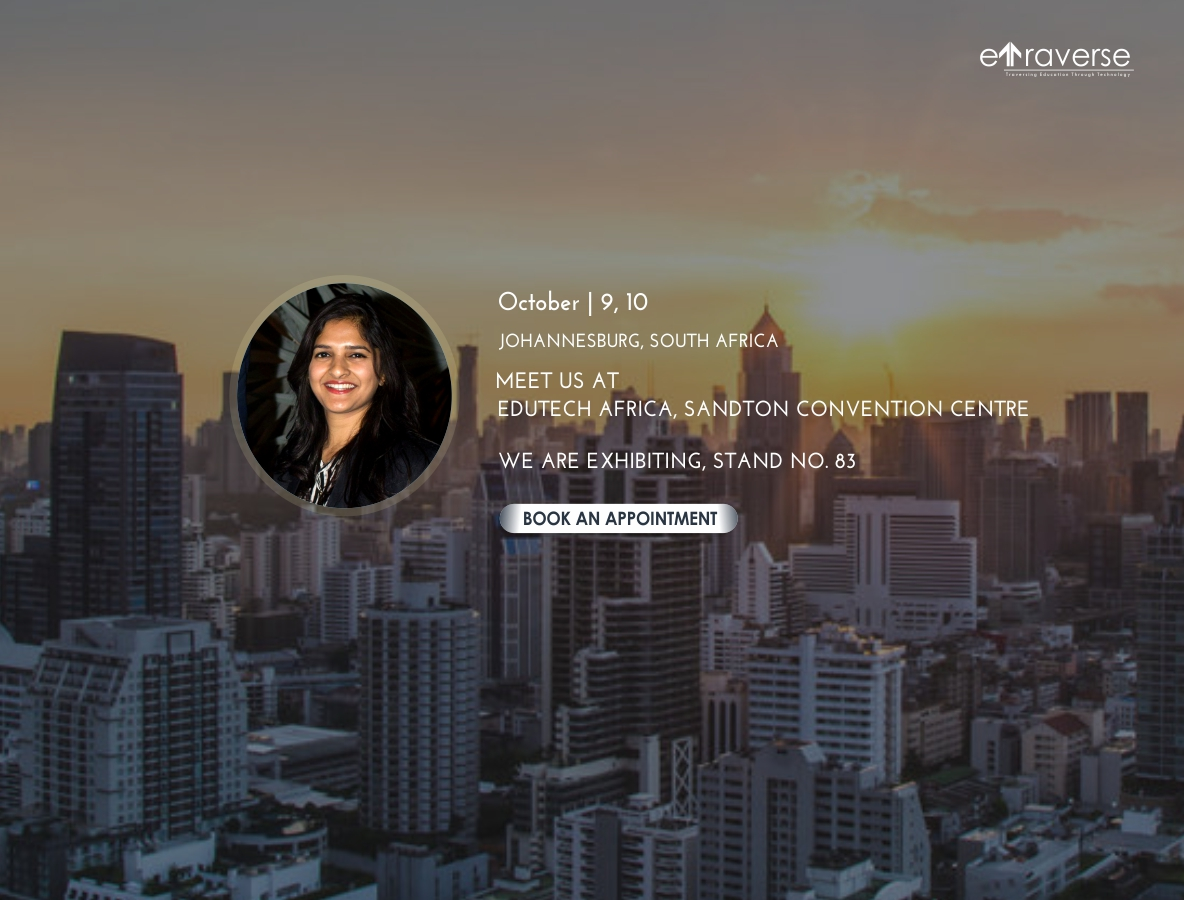
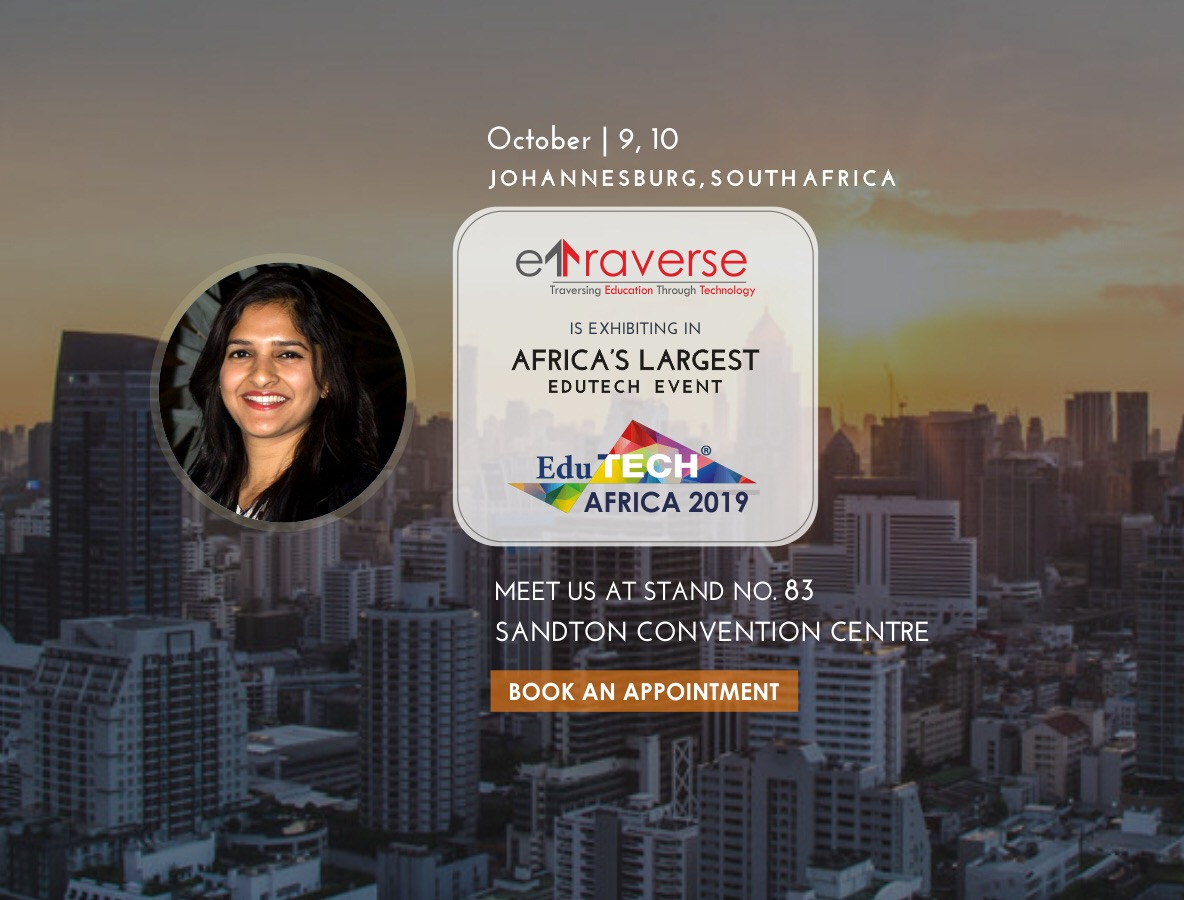
updated carousel image and twitter link

Changed region(s): [[0.125, 0.1244, 0.875, 0.7156], [0.4062, 0.7467, 0.6875, 0.8089], [0.8438, 0.0311, 0.9688, 0.0933]]

diff --git a/index.html b/index.html
@@ -73,8 +73,8 @@
           </div>
           <div class="ml-auto">
             <div class="social-wrap">
-              <a href="#"><span class="icon-twitter"></span></a>
-              <a target="_blank" href="linkedin.com/company/etraverse"><span class="icon-linkedin"></span></a>
+              <a target="_blank" href="https://twitter.com/eTraverse_"><span class="icon-linkedin"></span></a>
+              <a target="_blank" href="https://linkedin.com/company/etraverse"><span class="icon-linkedin"></span></a>
 
               <a href="#" class="d-inline-block d-lg-none site-menu-toggle js-menu-toggle text-black"><span
                   class="icon-menu h3"></span></a>
@@ -191,8 +191,7 @@
               </figure>
               <div class="course-1-content pb-4">
 
-                <p class="desc mb-4"> Our custom school/university management system has been designed to simplify and
-                  automate processes that have traditionally been paper-based.</p>
+                <p class="desc mb-4"> We have designed an all-in-one ERP to automate the traditional paper-based processes.</p>
                 <p><a href="offering_erp.html" class="btn btn-primary rounded-0 px-4">Learn More</a></p>
               </div>
             </div>

diff --git a/courses.html b/courses.html
@@ -98,8 +98,8 @@
           <div class="ml-auto">
             <div class="social-wrap">
               <a href="#"><span class="icon-facebook"></span></a>
-              <a href="#"><span class="icon-twitter"></span></a>
-              <a target="_blank" href="linkedin.com/company/etraverse"><span class="icon-linkedin"></span></a>
+              <a target="_blank" href="https://twitter.com/eTraverse_"><span class="icon-linkedin"></span></a>
+              <a target="_blank" href="https://linkedin.com/company/etraverse"><span class="icon-linkedin"></span></a>
 
               <a href="#" class="d-inline-block d-lg-none site-menu-toggle js-menu-toggle text-black"><span
                 class="icon-menu h3"></span></a>

diff --git a/news-single.html b/news-single.html
@@ -82,8 +82,8 @@
           <div class="ml-auto">
             <div class="social-wrap">
               <a href="#"><span class="icon-facebook"></span></a>
-              <a href="#"><span class="icon-twitter"></span></a>
-              <a target="_blank" href="linkedin.com/company/etraverse"><span class="icon-linkedin"></span></a>
+              <a target="_blank" href="https://twitter.com/eTraverse_"><span class="icon-linkedin"></span></a>
+              <a target="_blank" href="https://linkedin.com/company/etraverse"><span class="icon-linkedin"></span></a>
 
               <a href="#" class="d-inline-block d-lg-none site-menu-toggle js-menu-toggle text-black"><span
                 class="icon-menu h3"></span></a>

diff --git a/register.html b/register.html
@@ -98,8 +98,8 @@
           <div class="ml-auto">
             <div class="social-wrap">
               <a href="#"><span class="icon-facebook"></span></a>
-              <a href="#"><span class="icon-twitter"></span></a>
-              <a target="_blank" href="linkedin.com/company/etraverse"><span class="icon-linkedin"></span></a>
+              <a target="_blank" href="https://twitter.com/eTraverse_"><span class="icon-linkedin"></span></a>
+              <a target="_blank" href="https://linkedin.com/company/etraverse"><span class="icon-linkedin"></span></a>
 
               <a href="#" class="d-inline-block d-lg-none site-menu-toggle js-menu-toggle text-black"><span
                 class="icon-menu h3"></span></a>

diff --git a/contact.html b/contact.html
@@ -74,8 +74,8 @@
           </div>
           <div class="ml-auto">
             <div class="social-wrap">
-              <a href="#"><span class="icon-twitter"></span></a>
-              <a target="_blank" href="linkedin.com/company/etraverse"><span class="icon-linkedin"></span></a>
+              <a target="_blank" href="https://twitter.com/eTraverse_"><span class="icon-linkedin"></span></a>
+              <a target="_blank" href="https://linkedin.com/company/etraverse"><span class="icon-linkedin"></span></a>
 
               <a href="#" class="d-inline-block d-lg-none site-menu-toggle js-menu-toggle text-black"><span
                   class="icon-menu h3"></span></a>

diff --git a/event_africa_day.html b/event_africa_day.html
@@ -76,8 +76,8 @@
           </div>
           <div class="ml-auto">
             <div class="social-wrap">
-              <a href="#"><span class="icon-twitter"></span></a>
-              <a target="_blank" href="linkedin.com/company/etraverse"><span class="icon-linkedin"></span></a>
+              <a target="_blank" href="https://twitter.com/eTraverse_"><span class="icon-linkedin"></span></a>
+              <a target="_blank" href="https://linkedin.com/company/etraverse"><span class="icon-linkedin"></span></a>
 
               <a href="#" class="d-inline-block d-lg-none site-menu-toggle js-menu-toggle text-black"><span
                   class="icon-menu h3"></span></a>

diff --git a/event_edutech_africa.html b/event_edutech_africa.html
@@ -75,8 +75,8 @@
           </div>
           <div class="ml-auto">
             <div class="social-wrap">
-              <a href="#"><span class="icon-twitter"></span></a>
-              <a target="_blank" href="linkedin.com/company/etraverse"><span class="icon-linkedin"></span></a>
+              <a target="_blank" href="https://twitter.com/eTraverse_"><span class="icon-linkedin"></span></a>
+              <a target="_blank" href="https://linkedin.com/company/etraverse"><span class="icon-linkedin"></span></a>
 
               <a href="#" class="d-inline-block d-lg-none site-menu-toggle js-menu-toggle text-black"><span
                   class="icon-menu h3"></span></a>

diff --git a/event_wiit_awards.html b/event_wiit_awards.html
@@ -75,8 +75,8 @@
           </div>
           <div class="ml-auto">
             <div class="social-wrap">
-              <a href="#"><span class="icon-twitter"></span></a>
-              <a target="_blank" href="linkedin.com/company/etraverse"><span class="icon-linkedin"></span></a>
+              <a target="_blank" href="https://twitter.com/eTraverse_"><span class="icon-linkedin"></span></a>
+              <a target="_blank" href="https://linkedin.com/company/etraverse"><span class="icon-linkedin"></span></a>
 
               <a href="#" class="d-inline-block d-lg-none site-menu-toggle js-menu-toggle text-black"><span
                   class="icon-menu h3"></span></a>

diff --git a/offering_erp.html b/offering_erp.html
@@ -74,8 +74,8 @@
           </div>
           <div class="ml-auto">
             <div class="social-wrap">
-              <a href="#"><span class="icon-twitter"></span></a>
-              <a target="_blank" href="linkedin.com/company/etraverse"><span class="icon-linkedin"></span></a>
+              <a target="_blank" href="https://twitter.com/eTraverse_"><span class="icon-linkedin"></span></a>
+              <a target="_blank" href="https://linkedin.com/company/etraverse"><span class="icon-linkedin"></span></a>
 
               <a href="#" class="d-inline-block d-lg-none site-menu-toggle js-menu-toggle text-black"><span
                   class="icon-menu h3"></span></a>

diff --git a/offering_library_management.html b/offering_library_management.html
@@ -74,8 +74,8 @@
           </div>
           <div class="ml-auto">
             <div class="social-wrap">
-              <a href="#"><span class="icon-twitter"></span></a>
-              <a target="_blank" href="linkedin.com/company/etraverse"><span class="icon-linkedin"></span></a>
+              <a target="_blank" href="https://twitter.com/eTraverse_"><span class="icon-linkedin"></span></a>
+              <a target="_blank" href="https://linkedin.com/company/etraverse"><span class="icon-linkedin"></span></a>
 
               <a href="#" class="d-inline-block d-lg-none site-menu-toggle js-menu-toggle text-black"><span
                   class="icon-menu h3"></span></a>

diff --git a/offering_lms.html b/offering_lms.html
@@ -74,8 +74,8 @@
           </div>
           <div class="ml-auto">
             <div class="social-wrap">
-              <a href="#"><span class="icon-twitter"></span></a>
-              <a target="_blank" href="linkedin.com/company/etraverse"><span class="icon-linkedin"></span></a>
+              <a target="_blank" href="https://twitter.com/eTraverse_"><span class="icon-linkedin"></span></a>
+              <a target="_blank" href="https://linkedin.com/company/etraverse"><span class="icon-linkedin"></span></a>
 
               <a href="#" class="d-inline-block d-lg-none site-menu-toggle js-menu-toggle text-black"><span
                   class="icon-menu h3"></span></a>

diff --git a/offering_team.html b/offering_team.html
@@ -74,8 +74,8 @@
           </div>
           <div class="ml-auto">
             <div class="social-wrap">
-              <a href="#"><span class="icon-twitter"></span></a>
-              <a target="_blank" href="linkedin.com/company/etraverse"><span class="icon-linkedin"></span></a>
+              <a target="_blank" href="https://twitter.com/eTraverse_"><span class="icon-linkedin"></span></a>
+              <a target="_blank" href="https://linkedin.com/company/etraverse"><span class="icon-linkedin"></span></a>
 
               <a href="#" class="d-inline-block d-lg-none site-menu-toggle js-menu-toggle text-black"><span
                   class="icon-menu h3"></span></a>
